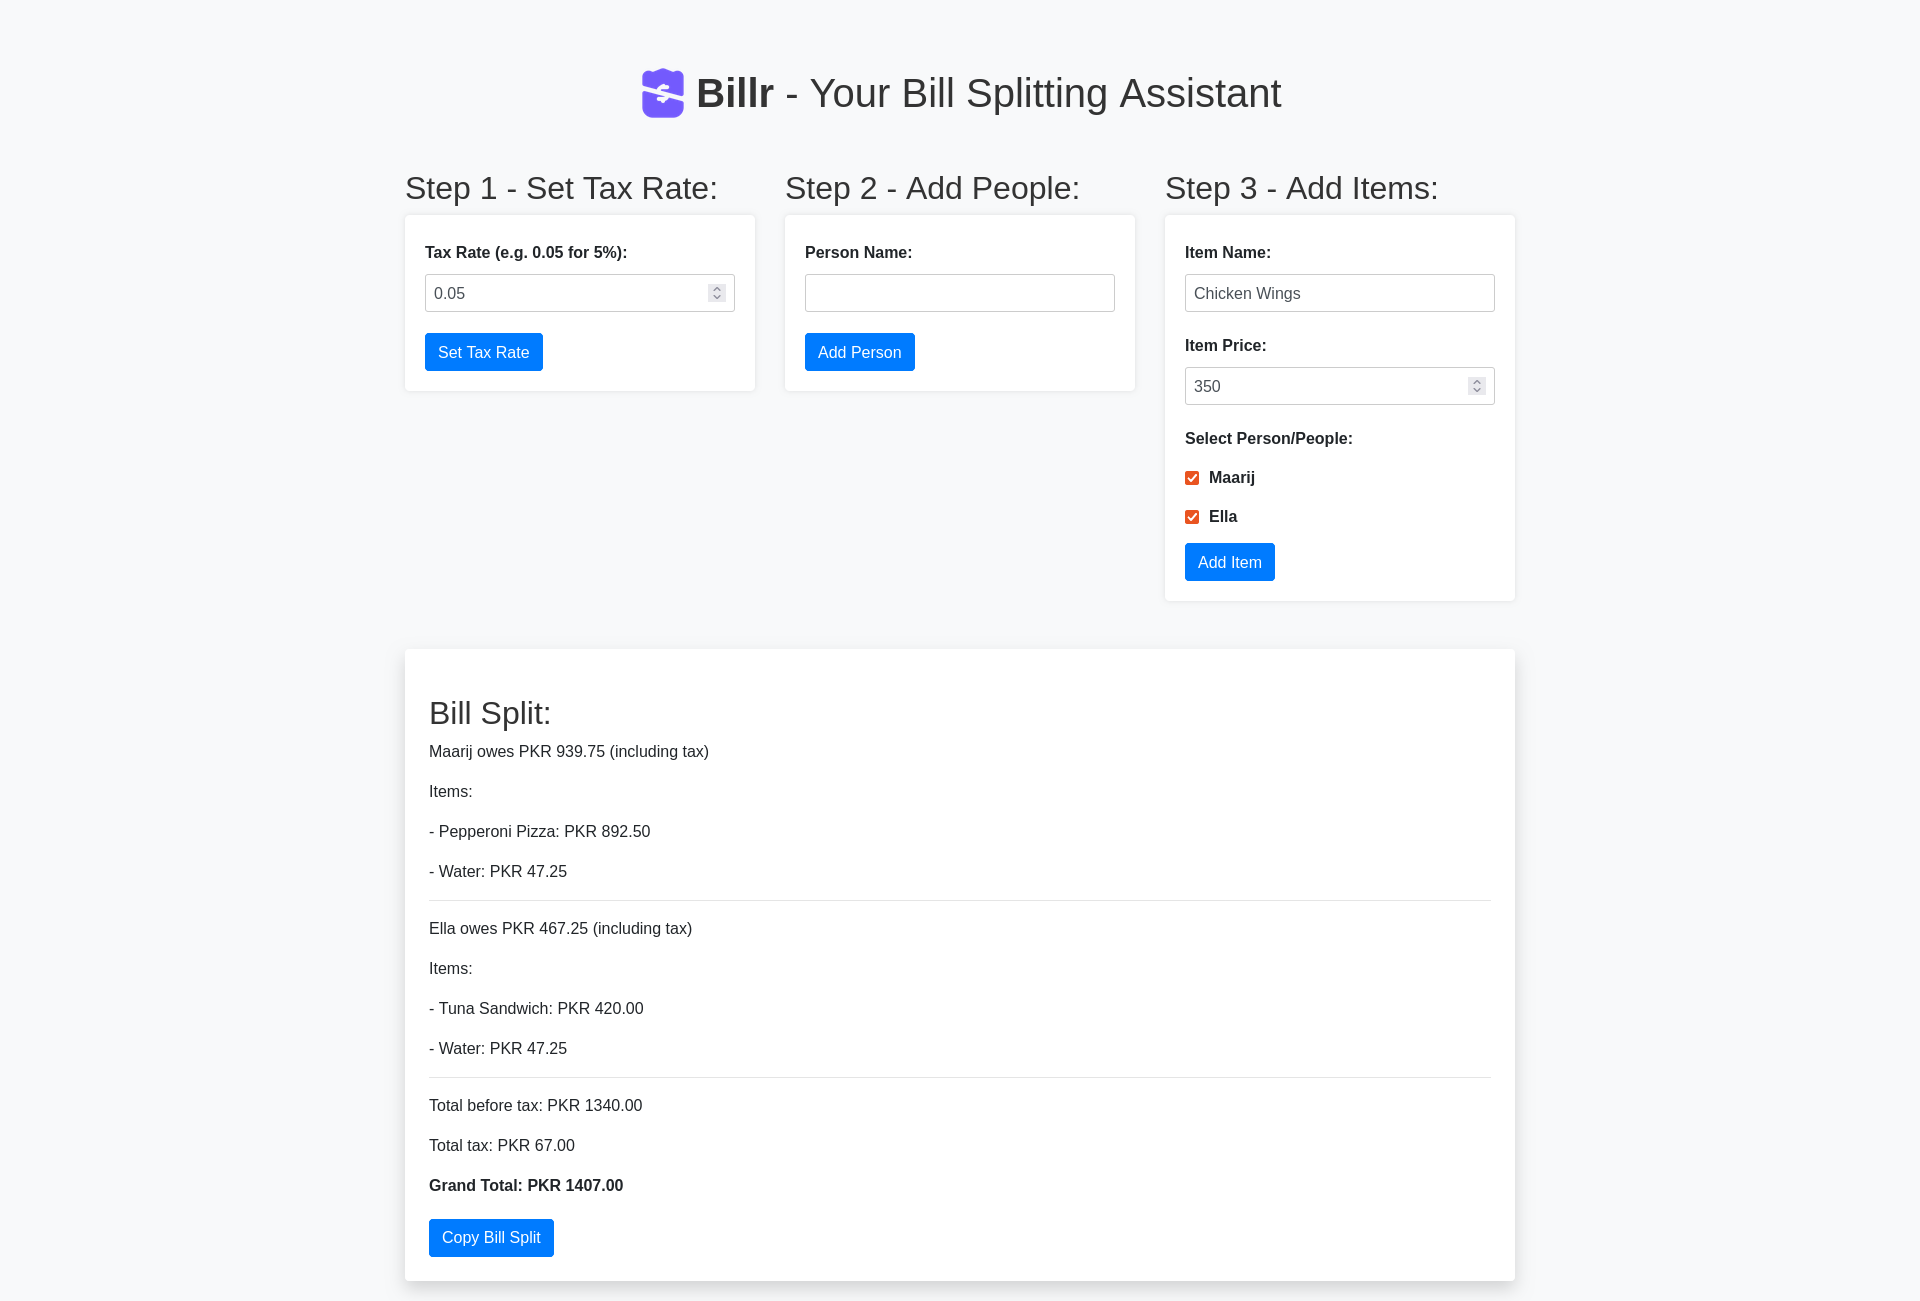
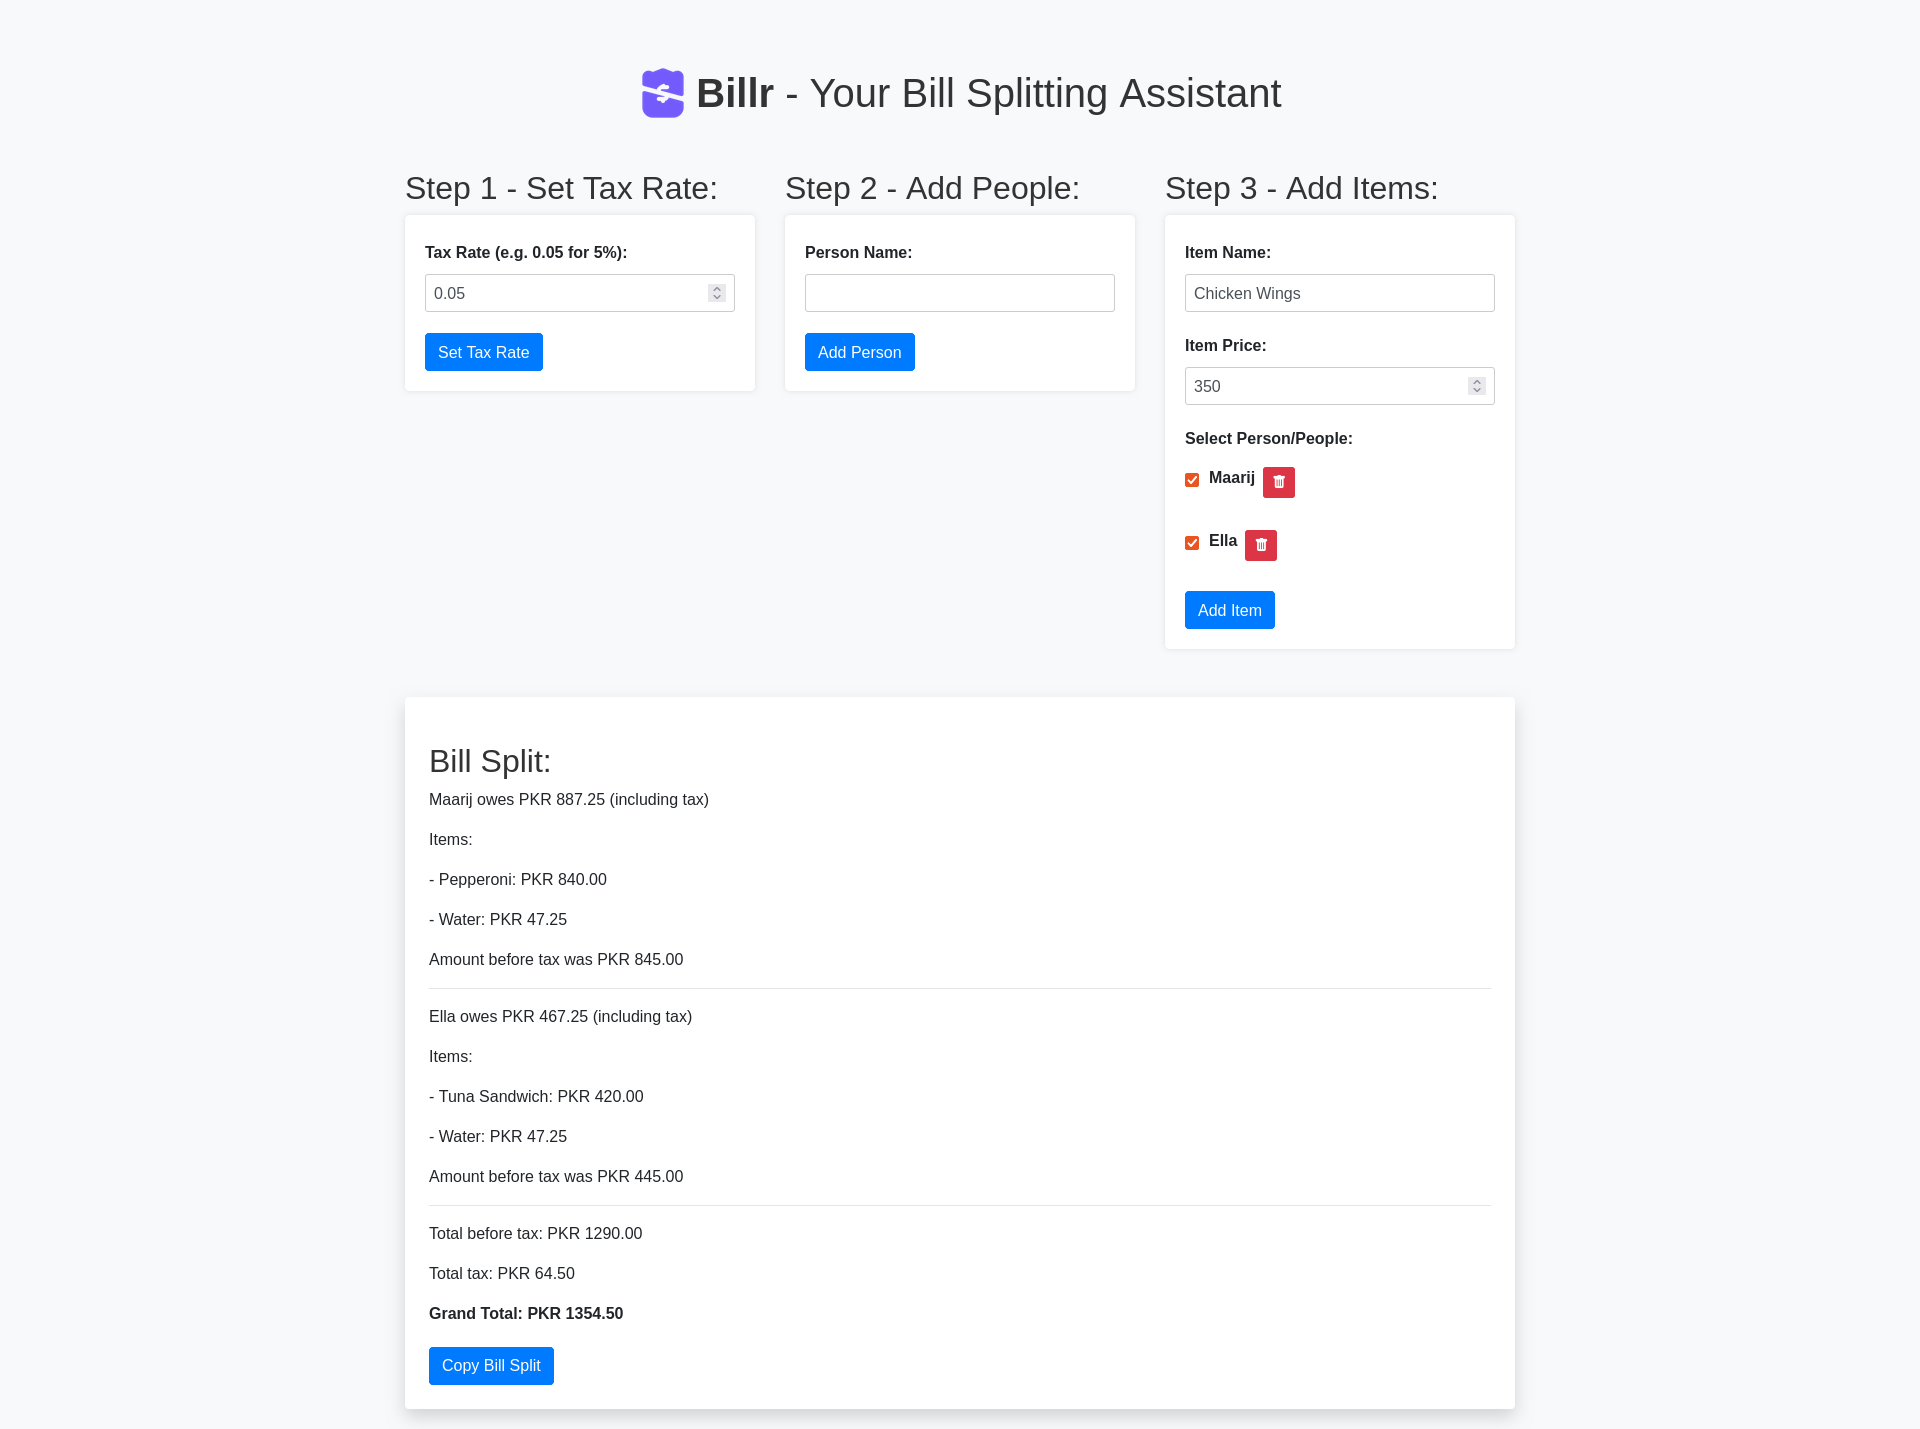
added person delete button

diff --git a/script.js b/script.js
@@ -94,10 +94,28 @@ function updatePeopleCheckboxes() {
         label.textContent = person;
         label.setAttribute('for', `checkbox_${person}`);
 
-        peopleCheckboxes.appendChild(checkbox);
-        peopleCheckboxes.appendChild(label);
+        const deleteButton = document.createElement('button');
+        deleteButton.className = 'btn btn-danger btn-sm ml-2';
+        deleteButton.innerHTML = '<i class="bi bi-trash-fill"></i>';
+        deleteButton.addEventListener('click', () => removePerson(person));
+
+        const container = document.createElement('div');
+        container.className = 'd-flex align-items-center';
+        container.appendChild(checkbox);
+        container.appendChild(label);
+        container.appendChild(deleteButton);
+
+        peopleCheckboxes.appendChild(container);
         peopleCheckboxes.appendChild(document.createElement('br'));
     }
+}
+
+function removePerson(person) {
+    totalWithoutTax -= everyone[person];
+    delete everyone[person];
+    delete sharedItems[person];
+    updatePeopleCheckboxes();
+    updateBillDetails();
 }
 
 function updateBillDetails() {
@@ -118,6 +136,8 @@ function updateBillDetails() {
                 output += `<p>- ${item.itemName}: PKR ${itemTotalWithTax.toFixed(2)}</p>`;
             });
         }
+
+        output += `Amount before tax was PKR ${everyone[person].toFixed(2)}`;
 
         output += '<hr>';
     }
@@ -153,7 +173,7 @@ function copyBillSplit() {
             });
         }
 
-        textToCopy += '\n';
+        textToCopy += `Amount before tax was PKR ${everyone[person].toFixed(2)} \n\n`;
     }
 
     textToCopy += `Total before tax: PKR ${totalWithoutTax.toFixed(2)}\n`;

diff --git a/index.html b/index.html
@@ -6,6 +6,7 @@
     <meta name="viewport" content="width=device-width, initial-scale=1.0">
     <meta name="description" content="Billr! Say hello to your new bill splitting assistant">
     <link rel="stylesheet" href="https://maxcdn.bootstrapcdn.com/bootstrap/4.5.2/css/bootstrap.min.css">
+    <link rel="stylesheet" href="https://cdn.jsdelivr.net/npm/bootstrap-icons@1.10.5/font/bootstrap-icons.css">
     <link rel="stylesheet" href="styles.css">
     <link rel="icon" type="image/png" href="favicon.png">
     <script async src="https://pagead2.googlesyndication.com/pagead/js/adsbygoogle.js?client=ca-pub-4901635062361937"
